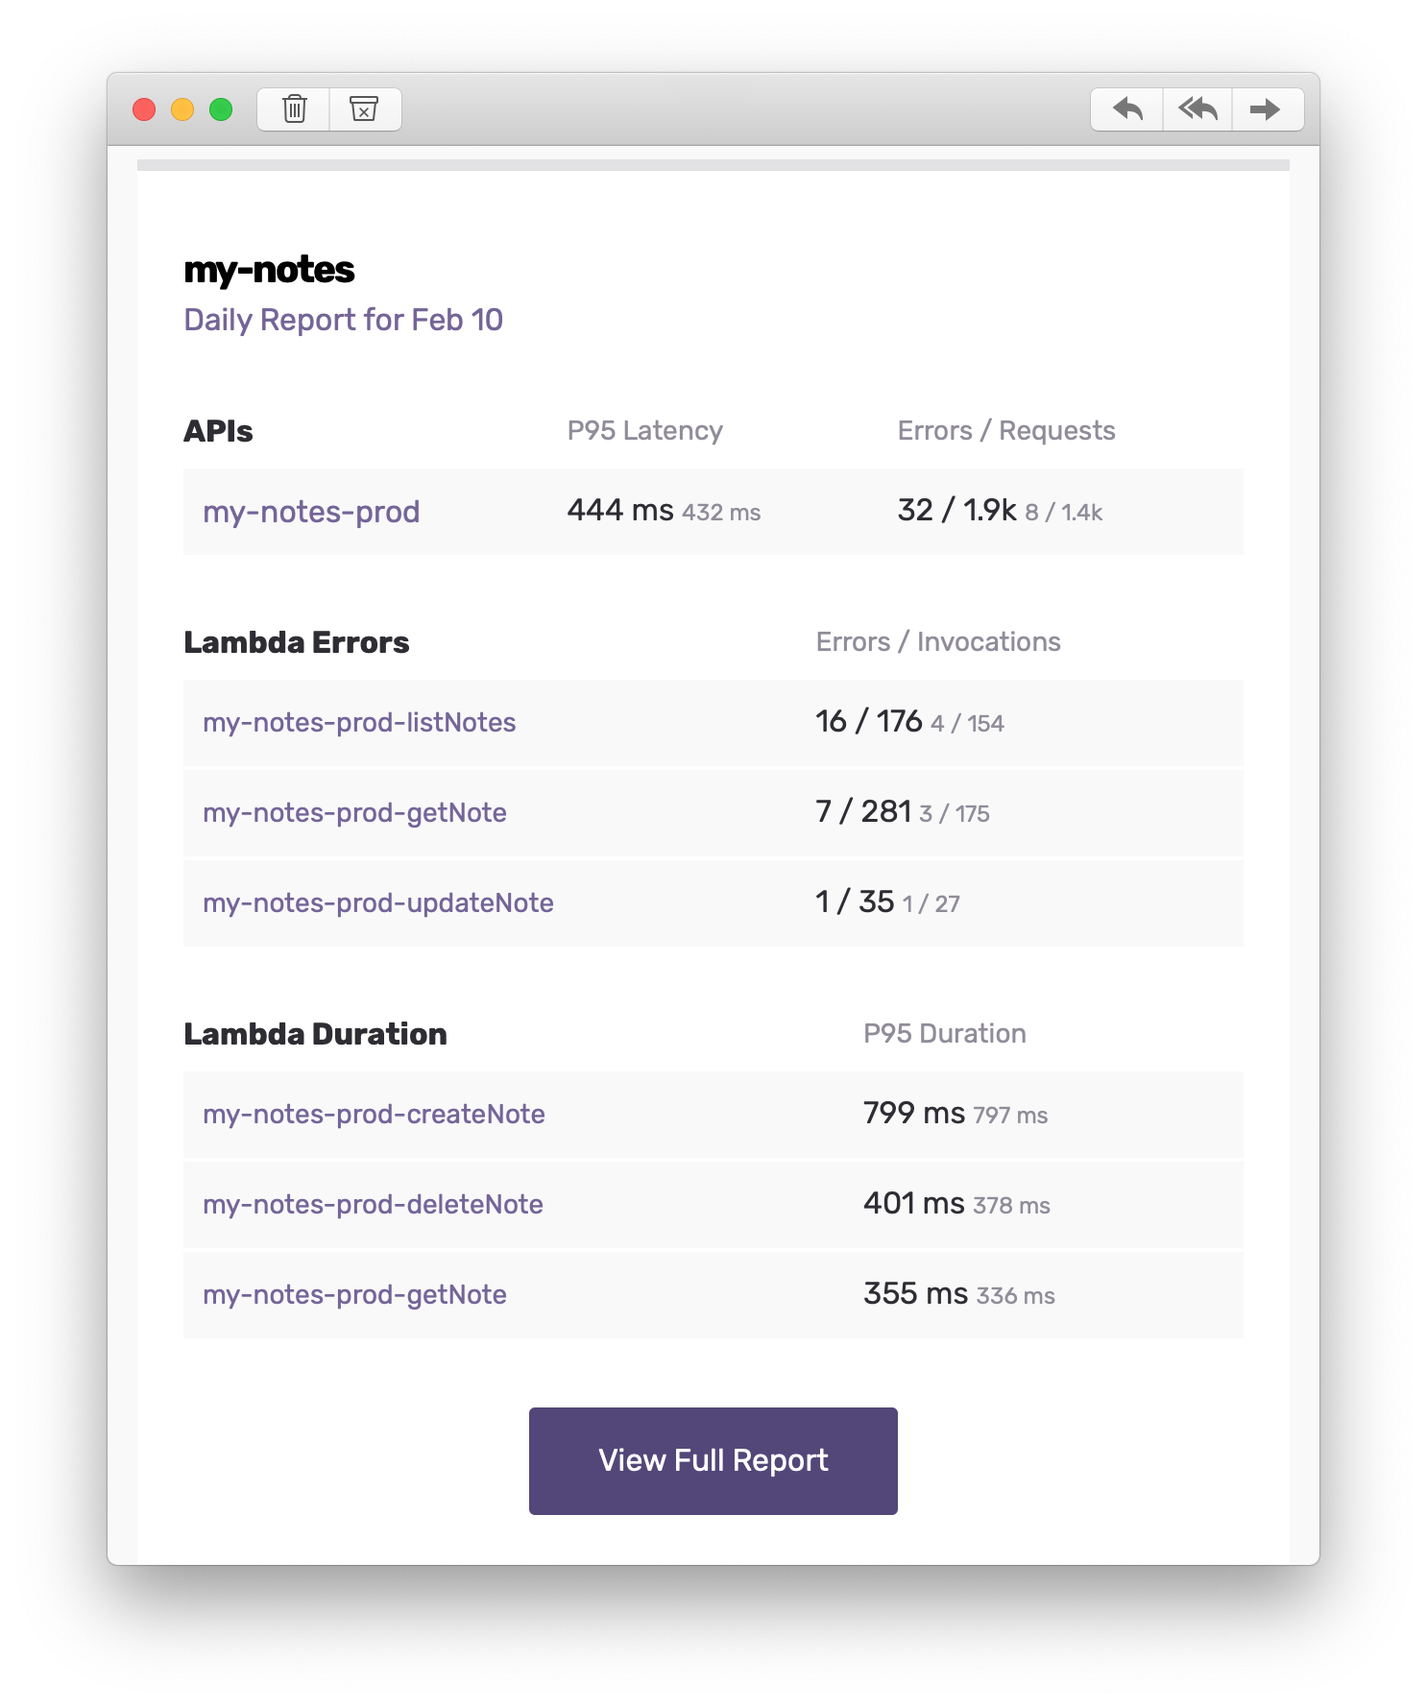
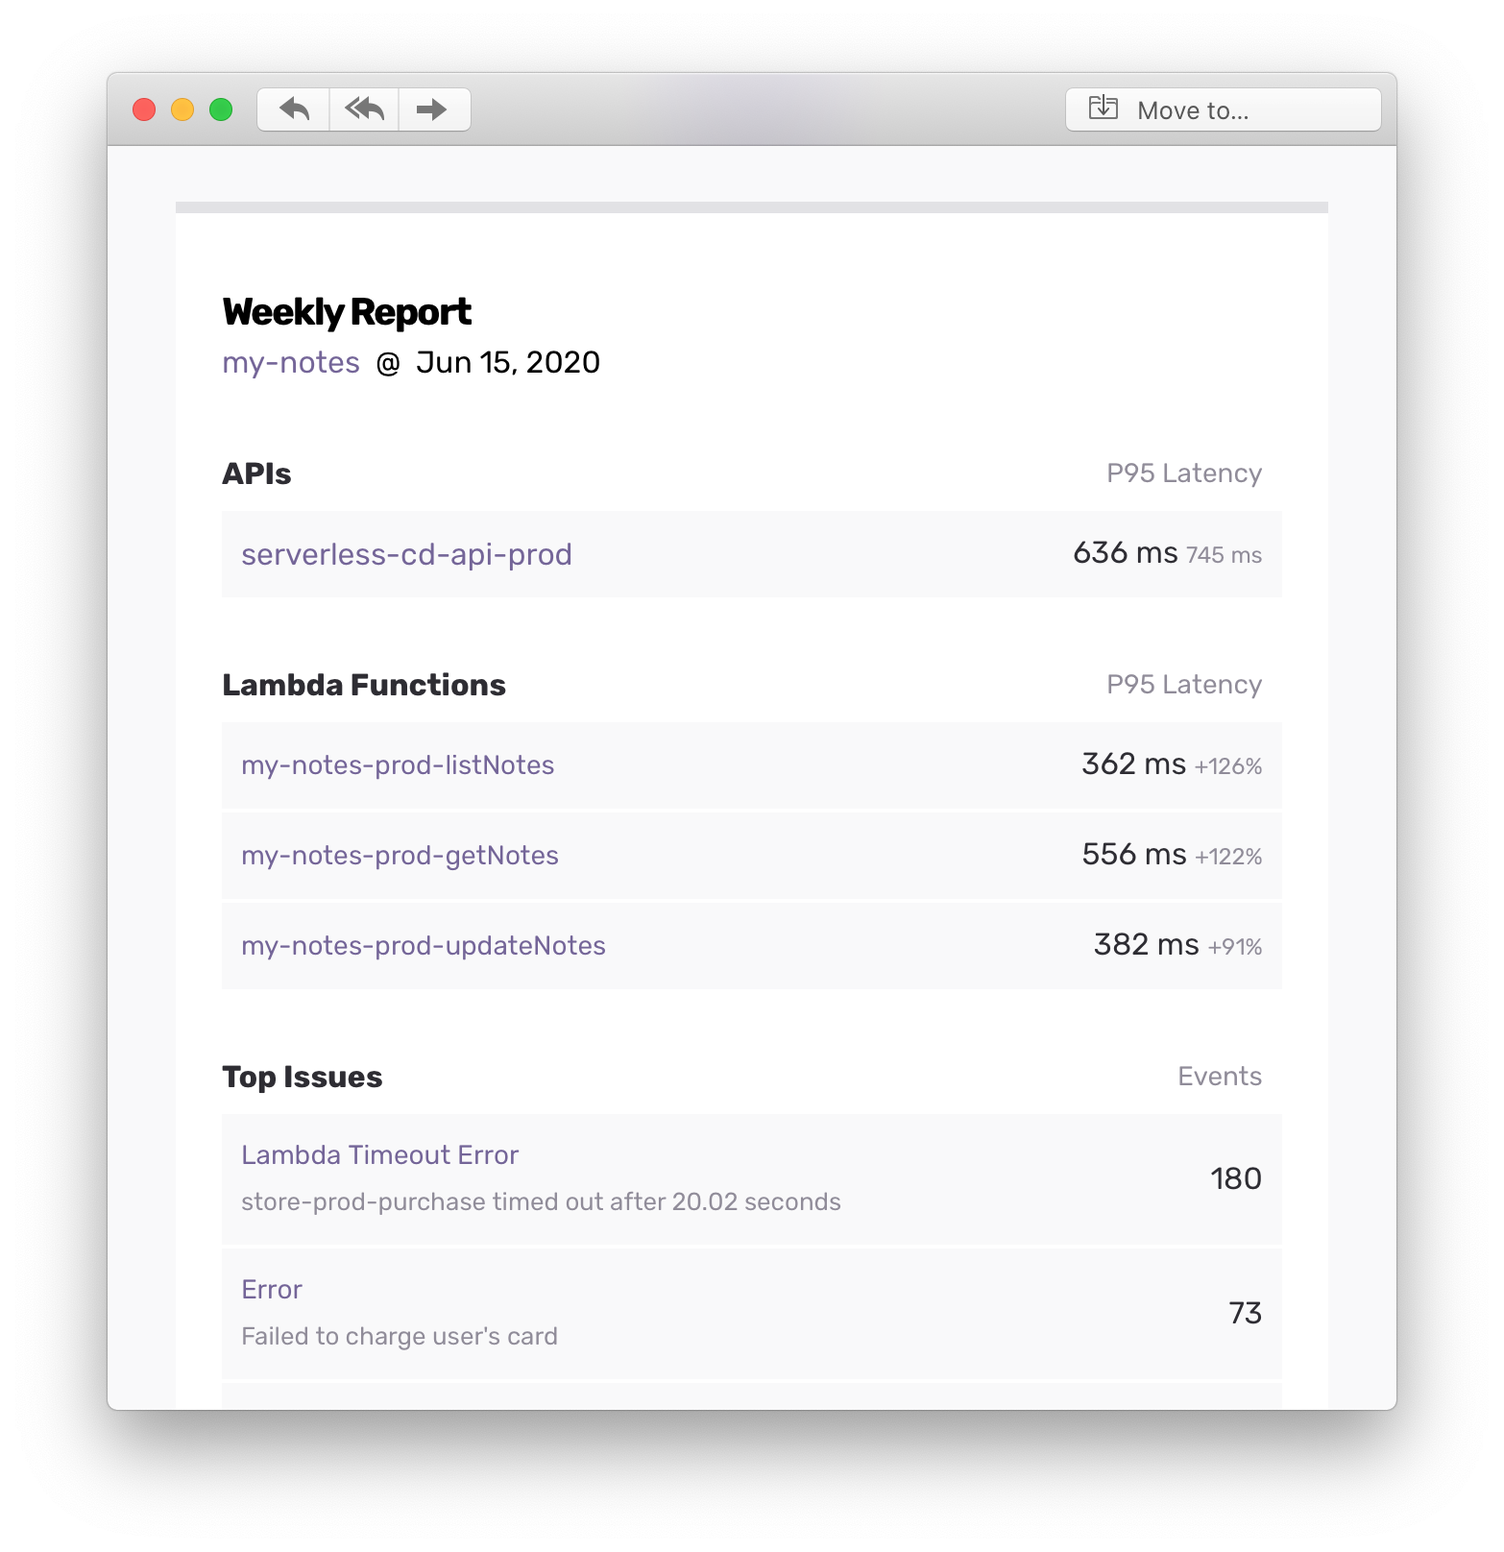
Adding blog post for Issues release

diff --git a/pricing.html b/pricing.html
@@ -248,17 +248,8 @@ title: Pricing Plans
         <h6 class="name">Logging &amp; Monitoring</h6>
         <div class="feature">
           <div class="name">
-            <span class="title expand">Live dashboard</span>
-            <p>Get a live view of the key metrics to monitor the health of your app.</p>
-          </div>
-          <div><i class="fa fa-check-circle" aria-hidden="true"></i></div>
-          <div><i class="fa fa-check-circle" aria-hidden="true"></i></div>
-          <div><i class="fa fa-check-circle" aria-hidden="true"></i></div>
-        </div>
-        <div class="feature">
-          <div class="name">
-            <span class="title expand">App reports</span>
-            <p>Get daily/weekly email reports with the latency and error rates of your APIs and Lambda functions. <a href="{% link _docs/viewing-app-reports.md %}">Learn more <i class="fa fa-angle-right" aria-hidden="true"></i></a></p>
+            <span class="title expand">Real-time monitoring</span>
+            <p>Get real-time error alerts for all your Lambda functions without any code changes.</p>
           </div>
           <div><i class="fa fa-check-circle" aria-hidden="true"></i></div>
           <div><i class="fa fa-check-circle" aria-hidden="true"></i></div>
@@ -267,7 +258,8 @@ title: Pricing Plans
         <div class="feature">
           <div class="name">
             <span class="title expand">Monitored events</span>
-            <p>Seed connects to CloudWatch Metrics, so there is no limit on the number of events that are monitored.</p>
+            <i class="fa fa-bullhorn expand" aria-hidden="true"></i>
+            <p>That's right! Lambda monitoring in Seed is free and unlimited.</p>
           </div>
           <div><b>Unlimited</b></div>
           <div><b>Unlimited</b></div>
@@ -275,12 +267,21 @@ title: Pricing Plans
         </div>
         <div class="feature">
           <div class="name">
-            <span class="title expand">Log retention</span>
-            <p>Seed connects to CloudWatch Logs, so there is no limit on log retention.</p>
+            <span class="title expand">Logs and metrics</span>
+            <p>View live logs and metrics to debug and monitor the health of your app. <a href="{% link _docs/viewing-logs.md %}">Learn more <i class="fa fa-angle-right" aria-hidden="true"></i></a></p>
           </div>
-          <div><b>Unlimited</b></div>
-          <div><b>Unlimited</b></div>
-          <div><b>Unlimited</b></div>
+          <div><i class="fa fa-check-circle" aria-hidden="true"></i></div>
+          <div><i class="fa fa-check-circle" aria-hidden="true"></i></div>
+          <div><i class="fa fa-check-circle" aria-hidden="true"></i></div>
+        </div>
+        <div class="feature">
+          <div class="name">
+            <span class="title expand">Weekly reports</span>
+            <p>Get weekly email reports with the latency of your APIs and the top errors in your Lambda functions. <a href="{% link _docs/viewing-app-reports.md %}">Learn more <i class="fa fa-angle-right" aria-hidden="true"></i></a></p>
+          </div>
+          <div><i class="fa fa-check-circle" aria-hidden="true"></i></div>
+          <div><i class="fa fa-check-circle" aria-hidden="true"></i></div>
+          <div><i class="fa fa-check-circle" aria-hidden="true"></i></div>
         </div>
       </div>
       <div class="section">

diff --git a/index.html b/index.html
@@ -3,12 +3,12 @@ layout: lander
 ---
 
 <div class="header">
-  <a class="announcement" href="{% link _posts/2020-06-10-seed-console-gets-a-ux-update.md %}">
+  <a class="announcement" href="{% link _posts/2020-07-01-real-time-lambda-monitoring-in-seed.md %}">
     <span>
       <span class="label">New</span>
       &mdash;
       <span class="content">
-        Seed Console UX Update
+        Real-Time Lambda Monitoring
       </span>
       <i class="fa fa-angle-right" aria-hidden="true"></i>
     </span>
@@ -113,7 +113,7 @@ layout: lander
     {% include graphics/issues.html %}
     <div class="body">
       <div class="header">
-        <h2>Real-time Lambda alerts<span>Beta</span></h2>
+        <h2>Real-time Lambda alerts<span>New</span></h2>
         <p>Get alerts through Slack or email when something goes wrong.</p>
       </div>
       <ul class="points">
@@ -123,16 +123,16 @@ layout: lander
           </div>
           <div class="copy">
             <h5>Nothing to install</h5>
-            <p>Just `console.error` to report an error! There are no 3rd party SDKs, agents, or libraries to install. It's completely native and it won't slow your Lambda functions down.</p>
+            <p>Just `console.error` to report an error! There are no 3rd party SDKs, agents, or libraries to install. It's completely native. And it detects all Lambda failures. Including timeouts and out of memory errors.</p>
           </div>
         </li>
         <li>
           <div class="icon">
-            <i class="fa fa-search" aria-hidden="true"></i>
+            <i class="fa fa-usd" aria-hidden="true"></i>
           </div>
           <div class="copy">
-            <h5>Detects all Lambda failures</h5>
-            <p>Other monitoring services don't detect if your Lambda function times out, or runs out of memory, or fails before reporting the error. Seed detects all Lambda failures, so you'll know exactly what your users are experiencing.</p>
+            <h5>Free and unlimited</h5>
+            <p>Being able to monitor your Lambda functions is essential to building great Serverless apps. Which is why it's available for free on Seed. You shouldn't have to pay more for monitoring than your entire Serverless infrastructure!</p>
           </div>
         </li>
       </ul>

diff --git a/assets/main.scss b/assets/main.scss
@@ -190,7 +190,7 @@ $on-laptop:                 800px;
                 0 3px 4px rgba(0, 0, 0, 0.02);
     border-radius: 4px;
     position: absolute;
-    top: 41px;
+    top: 46px;
     left: 123px;
 
     @include media-query($on-palm) {
@@ -206,7 +206,7 @@ $on-laptop:                 800px;
       border: {
         bottom: 1px solid darken($bottom-color, 5%);
       }
-      border-radius: 4px 4px 0 0;
+      border-radius: 5px 5px 0 0;
       display: flex;
       justify-content: flex-start;
       align-items: center;
@@ -242,7 +242,7 @@ $on-laptop:                 800px;
     }
     img {
       box-sizing: border-box;
-      border-radius: 0 0 4px 4px;
+      border-radius: 0 0 5px 5px;
     }
   }
 }

diff --git a/_posts/2020-07-01-real-time-lambda-monitoring-in-seed.md b/_posts/2020-07-01-real-time-lambda-monitoring-in-seed.md
@@ -1,0 +1,104 @@
+---
+layout: post
+title: Real-Time Lambda Monitoring in Seed
+categories: news
+author: frank
+image: assets/social-cards/real-time-lambda-monitoring.png
+tweet:
+---
+
+Real-time Lambda monitoring and alerting is now available for all apps in Seed. You can find it in the _Issues_ tab in your console. Oh and we have a small surprise for you below.
+
+![Issues feed in Seed](/assets/blog/real-time-lambda-monitoring-in-seed/issues-feed-in-seed.png)
+
+Issues was [launched in private beta a couple of weeks ago]({% link _posts/2020-06-10-issues-beta.md %}). And during that time many of you have had a chance to use it in your production environments.
+
+If you haven't had a chance to try it yet, here's a quick recap:
+
+- Works out-of-the-box. No code changes or external SDKs needed.
+- Sends Slack or email alerts with a complete log of the failed request.
+- Autodetects all Lambda failures. Including out of memory and timeouts.
+- Supports native error reporting. Use `console.error` to report any exceptions.
+
+Let's dive into the details.
+
+#### Nothing to install
+
+You don't need to install any 3rd party SDKs, libraries, layers, or packages. Issues works completely **out of the box**.
+
+![Enable Issues setting in Seed](/assets/blog/real-time-lambda-monitoring-in-seed/enable-issues-setting-in-seed.png)
+
+If you are setting up a new app on Seed, it'll be automatically enabled. If not, you can head over to your app settings and turn it on.
+
+#### Autodetect all Lambda failures
+
+Unlike other error reporting services, Issues will **catch all Lambda failures**. This includes out of memory errors, timeouts, etc.
+
+#### Native Error Reporting
+
+For cases where you want to report an error or exception in your code. Simply, `console.error(e)`. We call this [Native Error Reporting]({% link _docs/native-error-reporting.md %}).
+
+It has a couple of key advantages:
+
+1. You don't need to **make any code changes**. Just log the error to the console and it'll get reported.
+2. There is **no impact on performance**. Other services need your Lambda functions to wait for the error to be reported via a 3rd party HTTP call. This can slow your functions down.
+
+So that means you can do this in your Lambda function:
+
+<p style="margin: 0 auto; text-align: center;">
+  <img src="/assets/blog/real-time-lambda-monitoring-in-seed/lambda-function-with-console-error.png" alt="Lambda function with console.error" width="700" />
+</p>
+
+And if your users run into an exception, you'll get an alert with this:
+
+![Issue details page in Seed](/assets/blog/real-time-lambda-monitoring-in-seed/issue-details-page-in-seed.png)
+
+Also, any other `console.log` outputs show up in the request logs.
+
+![Request log in Issue details page](/assets/blog/real-time-lambda-monitoring-in-seed/request-log-in-issue-details-page.png)
+
+Currently, Native Error Reporting is supported in Node.js and Python. With support for other runtimes coming soon.
+
+#### Slack and Email Notifications
+
+You can setup Slack and email notifications when you get an error. Head over to your app settings to set this up.
+
+![Issues notifications setting in Seed](/assets/blog/real-time-lambda-monitoring-in-seed/issues-notifications-setting-in-seed.png)
+
+You can also set it up to be notified when an error happens in a specific stage.
+
+### Pricing
+
+Issues was free during the private beta. And we've got some awesome news to share. It'll be **completely FREE** for everybody!
+
+So it doesn't matter if you are a startup about to launch your product or if you receive millions of requests a day, it'll be free for you!
+
+We think real-time Lambda monitoring is essential to building a Serverless app. Without it, you are left completely in the dark. And it just doesn't make sense to pay hundreds or thousands of dollars for something that is an absolute necessity.
+
+Note that, we do have some soft limits in place to prevent abuse or accidental overuse. You can [read more about it in our docs]({% link _docs/issues-and-alerts.md %}#usage-and-limits) and [feel free to get in touch](mailto:{{ site.email }}) if you have any questions.
+
+### Thanks
+
+A big thanks to everybody that took part in our private beta and provided us with some really valuable feedback.
+
+Including Ricardo from [Avec](https://avec.app), who had some kind words for us:
+
+> The real-time Lambda monitoring in Seed helped us to remove additional paid third-party monitoring tools that add more workload, cost and latency in our functions. It's amazing that it's all centralized in the same service that deploys all our applications. And it really helps us to debug and fix issues in all environments.
+
+Reiner from [The Core Group](http://coreltd.com/):
+
+> The real-time Lambda monitoring in Seed makes it really easy for us to debug and fix issues in production. The ability to console.error to report issues is prompting me to rethink how we log and handle errors, in a good way!
+
+And Patryk from [Tale Commerce](https://www.talecommerce.pl):
+
+> I'm in the process of scaling my microservices and the Issues feature saved me a lot of headache. Having everything in one spot is really handy. I'm also glad that I don't have to pass my users data to another company. I've been with Seed for almost a year and I love the service!
+
+-------
+
+At [Seed](/), we want to make sure that your team has the best possible Serverless development experience. If you haven't tried Seed yet, here is what it can help you with:
+
+- Manage your environments
+- Git push to deploy with zero-configuration
+- And send you real-time error alerts for your Lambda functions!
+
+We are really excited to be able to build out the entire workflow. And to make it as easily accessible as possible for everybody!

diff --git a/_docs/viewing-metrics.md b/_docs/viewing-metrics.md
@@ -3,7 +3,7 @@ layout: docs
 title: Viewing Metrics
 ---
 
-[Seed](/) pulls together CloudWatch Metrics to give you an overview of your Lambda and API metrics. This includes the number of requests, number of errors, and latency of your Lambda function or API endpoint over time. Viewing these metrics gives you a view of how your Serverless app is performing and you can use it to debug specific issues.
+[Seed](/) pulls together CloudWatch Metrics to give you an overview of your Lambda and API metrics. This includes the number of requests, and latency of your Lambda function or API endpoint over time. Viewing these metrics gives you a view of how your Serverless app is performing and you can use it to debug specific issues.
 
 A couple of quick notes about the metrics viewer in Seed:
 
@@ -36,11 +36,7 @@ For Lambda, Seed shows you the following metrics:
 
    This is the number of times the Lambda has been invoked.
 
-2. **Error Count**
-
-   This is the number of times the Lambda generated an error.
-
-3. **Duration**
+2. **Duration**
 
    This is the average, P90, P95, and P99 time (in ms) it took to execute the Lambda.
 
@@ -60,40 +56,9 @@ You can view the following API metrics here:
 
    This is the number of requests made to API Gateway.
 
-2. **Error Count**
-
-   This is the number of times the API endpoint responded with a 4xx or 5xx error.
-
-3. **Latency**
+2. **Latency**
 
    This is the average, P90, P95, and P99 time (in ms) it took to respond to a request.
-
-### Inspecting Logs
-
-You can click on a data point on any of the above graphs to inspect it in detail. This is especially useful in debugging errors.
-
-![API Metrics inspect errors](/assets/docs/viewing-metrics/api-metrics-inspect-errors.png)
-
-Clicking through brings up the logs from that period of time. And in the case of errors, Seed will display just the errors.
-
-![API Logs inspect errors](/assets/docs/viewing-metrics/api-logs-inspect-errors.png)
-
-Note that for Lambda functions, the errors logged in the metrics points to errors that take place outside the handler function. Errors like:
-
-- Out of memory
-- Time out
-- Errors before initialization
-  - Before handler
-  - Syntax errors
-  - Handler file/function not found
-
-So inspecting the metrics for errors helps track issues that would otherwise not be reported through services like [Sentry](https://sentry.io). 
-
-A couple of caveats:
-
-- Errors related to IAM permissions might show up in the metrics but not in the logs.
-- Also, we are not displaying any Lambda throttling errors in the metrics.
-- Inspecting the Lambda errors is currently supported for the Node.js and Python runtimes.
 
 ### Additional IAM Permissions
 

diff --git a/_docs/issues-and-alerts.md b/_docs/issues-and-alerts.md
@@ -18,7 +18,7 @@ In this chapter here's what we'll be going over:
 
 - [How it works](#how-it-works)
 - [Enabling Issues](#enabling-issues)
-  <!--- [Default Stage](#default-stage)-->
+  - [Default Stage](#default-stage)
 - [Types of Lambda errors](#types-of-lambda-errors)
 - [Native error reporting](#native-error-reporting)
 - [Grouping errors](#grouping-errors)
@@ -26,6 +26,7 @@ In this chapter here's what we'll be going over:
 - [Ignoring or resolving issues](#ignoring-or-resolving-issues)
   - [Flag ignored issues](#flag-ignored-issues)
 - [Automatically ignored issues](#automatically-ignored-issues)
+- [Usage and limits](#usage-and-limits)
 - [Additional IAM permissions](#additional-iam-permissions)
 
 ------
@@ -62,7 +63,6 @@ This setting tells Seed to remove any existing subscriptions before enabling Iss
 
 If you are looking for a way to setup Issues while still keeping your existing subscriptions, [get in touch with us](mailto:{{ site.email }}). 
 
-<!--
 #### Default Stage
 
 Issues is enabled for all the stages in your app. But it defaults to showing you your _production_ stage first. So if you click on the Issues tab in your app, you'll be shown the issues from your _production_ stage.
@@ -74,7 +74,6 @@ However, you might have multiple production stages or you might have not deploye
 And select the stage you want.
 
 Note that, this setting has no impact on how the stages are monitored. It simply allows you to view the specified stage by default.
--->
 
 ### Types of Lambda Errors
 
@@ -143,6 +142,15 @@ Issues uses the standard console logger to detect errors. However, some librarie
 So some of these issues that are automatically ignored. Currently, all `DeprecationWarning` errors in Node.js are automatically ignored. You can read more about these errors over on the [common Serverless errors page]({% link _docs/serverless-errors/deprecationwarning.md %}).
 
 You can unignore these errors. Or if you think an error is being ignored by mistake, [feel free to let us know](mailto:{{ site.email }}).
+
+### Usage and Limits
+
+Issues is free for all users on Seed. But there are some soft limits to prevent accidental overuse.
+
+- Maximum of 10K errors per hour
+- Error related data is retained for 30 days
+
+If these limits don't work for you or if you have any questions, [feel free to contact us](mailto:{{ site.email }}).
 
 ### Additional IAM Permissions
 

diff --git a/_docs/viewing-app-reports.md b/_docs/viewing-app-reports.md
@@ -3,7 +3,7 @@ layout: docs
 title: Viewing App Reports
 ---
 
-[Seed](/) periodically compiles a report for your app using CloudWatch to give you an overview of your Lambda and API metrics. This includes the number of requests, number of errors, and latency of your Lambda function or API endpoint.
+[Seed](/) periodically compiles a report for your app using CloudWatch to give you an overview of your Lambda and API metrics. This includes the number of requests and latency of your Lambda function or API endpoint. And a summary of [the top issues]({% link _docs/issues-and-alerts.md %}) in your app.
 
 App Reports are generated for all the apps in your organization.
 
@@ -11,21 +11,11 @@ App Reports are generated for all the apps in your organization.
   <img src="/assets/docs/viewing-app-reports/app-report-email.png" alt="App Report email" width="600" />
 </p>
 
-App Reports allow you to keep an eye on the performance of your app. It makes it apparent if some of your APIs or Lambda functions have an increase in errors or if they are now performing slower than before.
-
-By default, these reports are sent out once a week (on Monday around 2am UTC) but they can be configured to be sent daily (around 1am UTC). You can find these in your organization's settings.
+App Reports allow you to keep an eye on the performance of your app. It makes it apparent if some of your APIs or Lambda functions have an increase in errors or if they are now performing slower than before. They are sent out once a week (on Monday around 2am UTC). You can find these in your organization's settings.
 
 ![App report in org settings](/assets/docs/viewing-app-reports/app-report-in-org-settings.png)
 
 Note that, since these reports rely on CloudWatch, AWS will charge you a small amount based on your region. It's roughly $0.005 per report. Make sure to check the [CloudWatch Metrics pricing](https://aws.amazon.com/cloudwatch/pricing/) for your region.
-
-### Hiding Lambdas in Reports
-
-Viewing the full report on the Seed console allows you to hide specific Lambdas. For example, you might not be interested in the duration information for a specific Lambda.
-
-![Hide Lambda in reports](/assets/docs/viewing-app-reports/hide-lambda-in-reports.png)
-
-The hidden Lambdas will not be shown in the email but are still available in the console.
 
 ### Additional IAM Permissions
 
